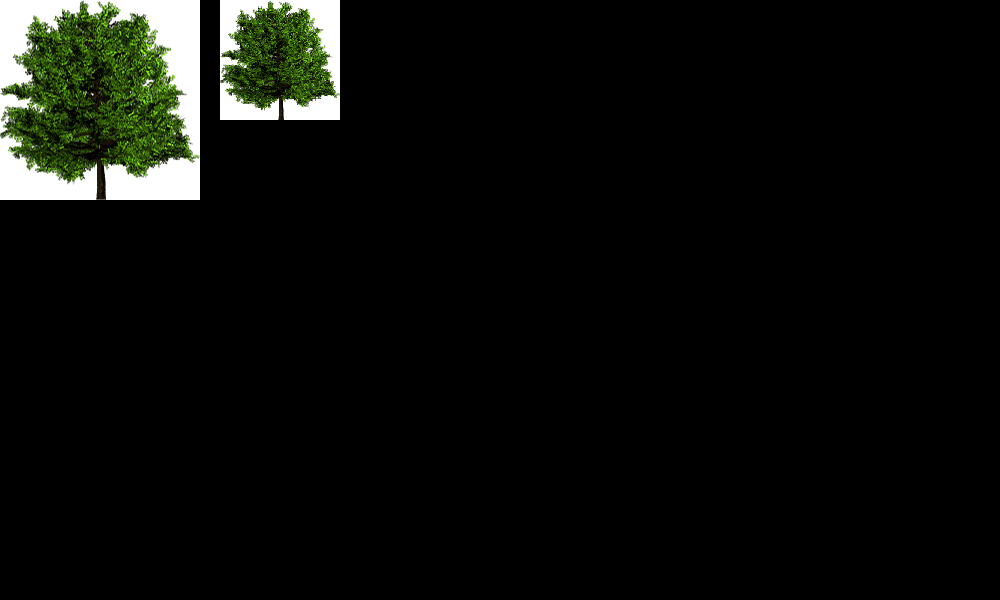
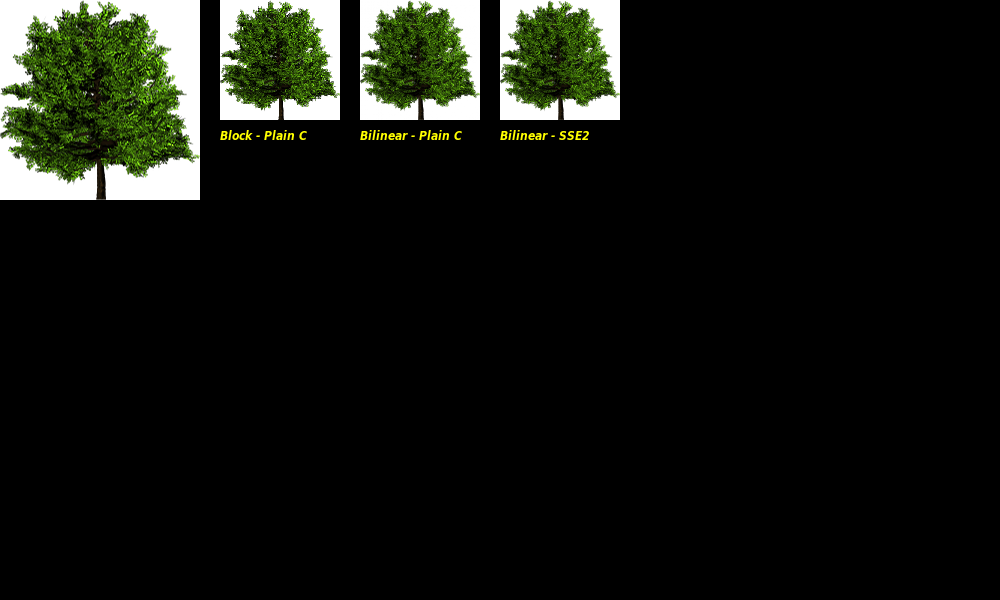
Testing image scaling

Changed region(s): [[0.341, 0.0, 0.62, 0.24], [0.217, 0.21, 0.31, 0.24]]

diff --git a/src/Pt-Gfx/tests/ImagePainterTest2_ImageScaling.cpp b/src/Pt-Gfx/tests/ImagePainterTest2_ImageScaling.cpp
@@ -1,6 +1,202 @@
+// FastC++: Coding Cpp Efficiently
+// Bilinear Pixel Interpolation using SSE
+// Blog by theowl84, 2011
+// http://fastcpp.blogspot.co.id/2011/06/bilinear-pixel-interpolation-using-sse.html
+
+//
+// Normal C
+//
+
+inline Pt::int32_t getPixel_C(const Pt::int32_t* img, Pt::ssize_t imageWidth, float x, float y)
+{
+    // Used for processing the pixels
+    union Pixel4 {
+        Pt::uint8_t c[4];
+        Pt::int32_t i;
+    };
+
+    // Floor the coordinate
+    const Pt::int32_t px = Pt::Gfx::Math::zfint(x);
+    const Pt::int32_t py = Pt::Gfx::Math::zfint(y);
+
+    // Pointer to the first pixel
+    const Pixel4* p0 = (const Pixel4*) img + py * imageWidth + px;
+
+    // Load the four neighboring pixels
+    const Pixel4& p1 = p0[0 + 0 * imageWidth];
+    const Pixel4& p2 = p0[1 + 0 * imageWidth];
+    const Pixel4& p3 = p0[0 + 1 * imageWidth];
+    const Pixel4& p4 = p0[1 + 1 * imageWidth];
+
+    // Calculate the weights for each pixel
+    const float fx  = x    - px;
+    const float fy  = y    - py;
+    const float fx1 = 1.0f - fx;
+    const float fy1 = 1.0f - fy;
+
+    const float w1 = fx1 * fy1;
+    const float w2 = fx  * fy1;
+    const float w3 = fx1 * fy ;
+    const float w4 = fx  * fy ;
+
+    // Calculate the weighted sum of pixels
+    Pixel4 r;
+    r.c[0] = p1.c[0] * w1 + p2.c[0] * w2 + p3.c[0] * w3 + p4.c[0] * w4;
+    r.c[1] = p1.c[1] * w1 + p2.c[1] * w2 + p3.c[1] * w3 + p4.c[1] * w4;
+    r.c[2] = p1.c[2] * w1 + p2.c[2] * w2 + p3.c[2] * w3 + p4.c[2] * w4;
+    r.c[3] = p1.c[3] * w1 + p2.c[3] * w2 + p3.c[3] * w3 + p4.c[3] * w4;
+
+    // Return the resulting pixel
+    return r.i;
+}
+
+struct GetPixel_C {
+    static inline Pt::int32_t getPixel(const Pt::int32_t* img, Pt::ssize_t imageWidth, float x, float y)
+    { return getPixel_C(img, imageWidth, x, y); }
+};
+
+
+//
+// SSE2
+//
+
+// Constant
+static const __m128 sseFour001 = _mm_set1_ps(  1);
+static const __m128 sseFour256 = _mm_set1_ps(256);
+
+inline __m128 calcWeight_SSE2(float x, float y)
+{
+     _MM_SET_ROUNDING_MODE(_MM_ROUND_TOWARD_ZERO);
+
+     const __m128  ssx       = _mm_set_ss     (x                                            );
+     const __m128  ssy       = _mm_set_ss     (y                                            );
+     const __m128  psXY      = _mm_unpacklo_ps(ssx,        ssy                              ); // 0 0 Y X
+
+     const __m128i psXYi     = _mm_cvtps_epi32(psXY                                         );
+     const __m128  psXYfloor = _mm_cvtepi32_ps(psXYi                                        );
+     const __m128  psXYfrac  = _mm_sub_ps     (psXY,       psXYfloor                        );
+
+     const __m128  psXYfrac1 = _mm_sub_ps     (sseFour001, psXYfrac                         ); // ? ?     (1-Y) (1-X)
+     const __m128  wxh       = _mm_unpacklo_ps(psXYfrac1,  psXYfrac                         ); // ? ?     X     (1-X)
+     const __m128  wx        = _mm_movelh_ps  (wxh,        wxh                              ); // X (1-X) X     (1-X)
+     const __m128  wy        = _mm_shuffle_ps (psXYfrac1,  psXYfrac, _MM_SHUFFLE(1, 1, 1, 1)); // Y Y     (1-Y) (1-Y)
+
+     _MM_SET_ROUNDING_MODE(_MM_ROUND_NEAREST);
+
+     // Return the complete weight vector
+     return _mm_mul_ps(wx, wy);
+}
+
+inline __m128 calcWeight_SSE4(float x, float y)
+{
+     const __m128  ssx       = _mm_set_ss     (x                                            );
+     const __m128  ssy       = _mm_set_ss     (y                                            );
+     const __m128  psXY      = _mm_unpacklo_ps(ssx,        ssy                              ); // 0 0 Y X
+
+     const __m128  psXYfloor = _mm_floor_ps   (psXY                                         );
+     const __m128  psXYfrac  = _mm_sub_ps     (psXY,       psXYfloor                        );
+
+     const __m128  psXYfrac1 = _mm_sub_ps     (sseFour001, psXYfrac                         ); // ? ?     (1-Y) (1-X)
+     const __m128  wxh       = _mm_unpacklo_ps(psXYfrac1,  psXYfrac                         ); // ? ?     X     (1-X)
+     const __m128  wx        = _mm_movelh_ps  (wxh,        wxh                              ); // X (1-X) X     (1-X)
+     const __m128  wy        = _mm_shuffle_ps (psXYfrac1,  psXYfrac, _MM_SHUFFLE(1, 1, 1, 1)); // Y Y     (1-Y) (1-Y)
+     // Return the complete weight vector
+     return _mm_mul_ps(wx, wy);
+}
+
+inline Pt::int32_t getPixel_SSE2(const Pt::int32_t* img, Pt::ssize_t imageWidth, float x, float y)
+{
+    // Floor the coordinate
+    const Pt::int32_t px = Pt::Gfx::Math::zfint(x);
+    const Pt::int32_t py = Pt::Gfx::Math::zfint(y);
+
+    // Pointer to the first pixel
+    const Pt::int32_t* p0 = img + py * imageWidth + px;
+
+    // Load the four neighboring pixels
+    const __m128i p12h    = _mm_loadl_epi64    ( (const __m128i*) &p0[0 * imageWidth] );
+    const __m128i p34h    = _mm_loadl_epi64    ( (const __m128i*) &p0[1 * imageWidth] );
+
+    // Extend to 16-bit
+    const __m128i p12     = _mm_unpacklo_epi8  (p12h,    _mm_setzero_si128()    );
+    const __m128i p34     = _mm_unpacklo_epi8  (p34h,    _mm_setzero_si128()    );
+
+    // Calculate weight
+    const __m128  weight  = calcWeight_SSE2(x, y);
+
+    // Convert floating point weights to 16-bit integer
+    const __m128  weights = _mm_mul_ps         (weight,  sseFour256             );
+    const __m128i weighti = _mm_cvtps_epi32    (weights                         ); // W4 W3 W2 W1
+    const __m128i weighth = _mm_packs_epi32    (weighti, _mm_setzero_si128()    ); // 32-bit to 16-bit
+
+     // Prepare the weights
+    const __m128i w12h    = _mm_shufflelo_epi16(weighth, _MM_SHUFFLE(1, 1, 0, 0));
+    const __m128i w12     = _mm_unpacklo_epi16 (w12h,    w12h                   ); // W2 W2 W2 W2 W1 W1 W1 W1
+
+    const __m128i w34h    = _mm_shufflelo_epi16(weighth, _MM_SHUFFLE(3, 3, 2, 2));
+    const __m128i w34     = _mm_unpacklo_epi16 (w34h,    w34h                   ); // W4 W4 W4 W4 W3 W3 W3 W3
+
+    // Multiply each pixel with its weight
+    const __m128i L12     = _mm_mullo_epi16    (p12,     w12                    );
+    const __m128i L34     = _mm_mullo_epi16    (p34,     w34                    );
+
+    // Add the results
+    const __m128i L1234   = _mm_add_epi16      (L12,     L34                    );
+    const __m128i Lhi     = _mm_shuffle_epi32  (L1234,   _MM_SHUFFLE(3, 2, 3, 2));
+    const __m128i L       = _mm_add_epi16      (L1234,   Lhi                    );
+
+    // Convert back to 8-bit
+    const __m128i L8h     = _mm_srli_epi16     (L,       8                      ); // Divide by 256
+    const __m128i L8      = _mm_packus_epi16   (L8h,     _mm_setzero_si128()    );
+
+    // Return the result
+    return _mm_cvtsi128_si32(L8);
+}
+
+struct GetPixel_SSE2 {
+    static inline Pt::int32_t getPixel(const Pt::int32_t* img, Pt::ssize_t imageWidth, float x, float y)
+    { return getPixel_SSE2(img, imageWidth, x, y); }
+};
+
+
+//
+// Wrapper
+//
+
+template <typename GetPixelT, typename InIterT, typename OutIterT>
+void bilinearScale(
+    InIterT  from, Pt::ssize_t fromWidth, Pt::ssize_t fromHeight,
+    OutIterT to,   Pt::ssize_t toWidth,   Pt::ssize_t toHeight
+)
+{
+    const Pt::int32_t* src = (const Pt::int32_t*) from->base();
+          Pt::int32_t* dst = (      Pt::int32_t*) to  ->base();
+
+    const float incX = (float) fromWidth  / (float) toWidth;
+    const float incY = (float) fromHeight / (float) toHeight;
+
+    float itrY = 0;
+    for(Pt::ssize_t y = 0; y < toHeight; ++y) {
+        float itrX = 0;
+        for(Pt::ssize_t x = 0; x < toWidth; ++x) {
+            *dst++ = GetPixelT::getPixel(src, fromWidth, itrX, itrY);
+            itrX += incX;
+        }
+        itrY += incY;
+    }
+}
+
+
+//
+// Test
+//
+
 static void testImageScaling(const char* title, Image& image, Painter& painter)
 {
     resetImage(image);
+
+    painter.setFont( Pt::Gfx::Font(FONT_SPEC_S) );
+    painter.setPen( Color::fromRgb8(255, 255, 0, 255) );
 
     ImagePainter2* ip2 = dynamic_cast<ImagePainter2*>(dynamic_cast<Painter*>(&painter));
 
@@ -19,6 +215,25 @@ static void testImageScaling(const char* title, Image& image, Painter& painter)
         scaledImage               .begin(), scaledImage               .width(), scaledImage               .height()
     );
     painter.drawImage(PointF(x, y), scaledImage);
+    painter.drawText( PointF(x, y + scaledImage.height() + 20), "Block - Plain C" );
+    x += scaledImage.width() + 20;
+
+    // Scaled image (bilinear scale)
+    bilinearScale<GetPixel_C>(
+        textureWithWhiteBackground.begin(), textureWithWhiteBackground.width(), textureWithWhiteBackground.height(),
+        scaledImage               .begin(), scaledImage               .width(), scaledImage               .height()
+    );
+    painter.drawImage(PointF(x, y), scaledImage);
+    painter.drawText( PointF(x, y + scaledImage.height() + 20), "Bilinear - Plain C" );
+    x += scaledImage.width() + 20;
+
+    // Scaled image (bilinear scale)
+    bilinearScale<GetPixel_SSE2>(
+        textureWithWhiteBackground.begin(), textureWithWhiteBackground.width(), textureWithWhiteBackground.height(),
+        scaledImage               .begin(), scaledImage               .width(), scaledImage               .height()
+    );
+    painter.drawImage(PointF(x, y), scaledImage);
+    painter.drawText( PointF(x, y + scaledImage.height() + 20), "Bilinear - SSE2" );
     x += scaledImage.width() + 20;
 
     sdlPreviewRGB888Buffer(title, image.data(), image.width(), image.height(), !!ip2);
